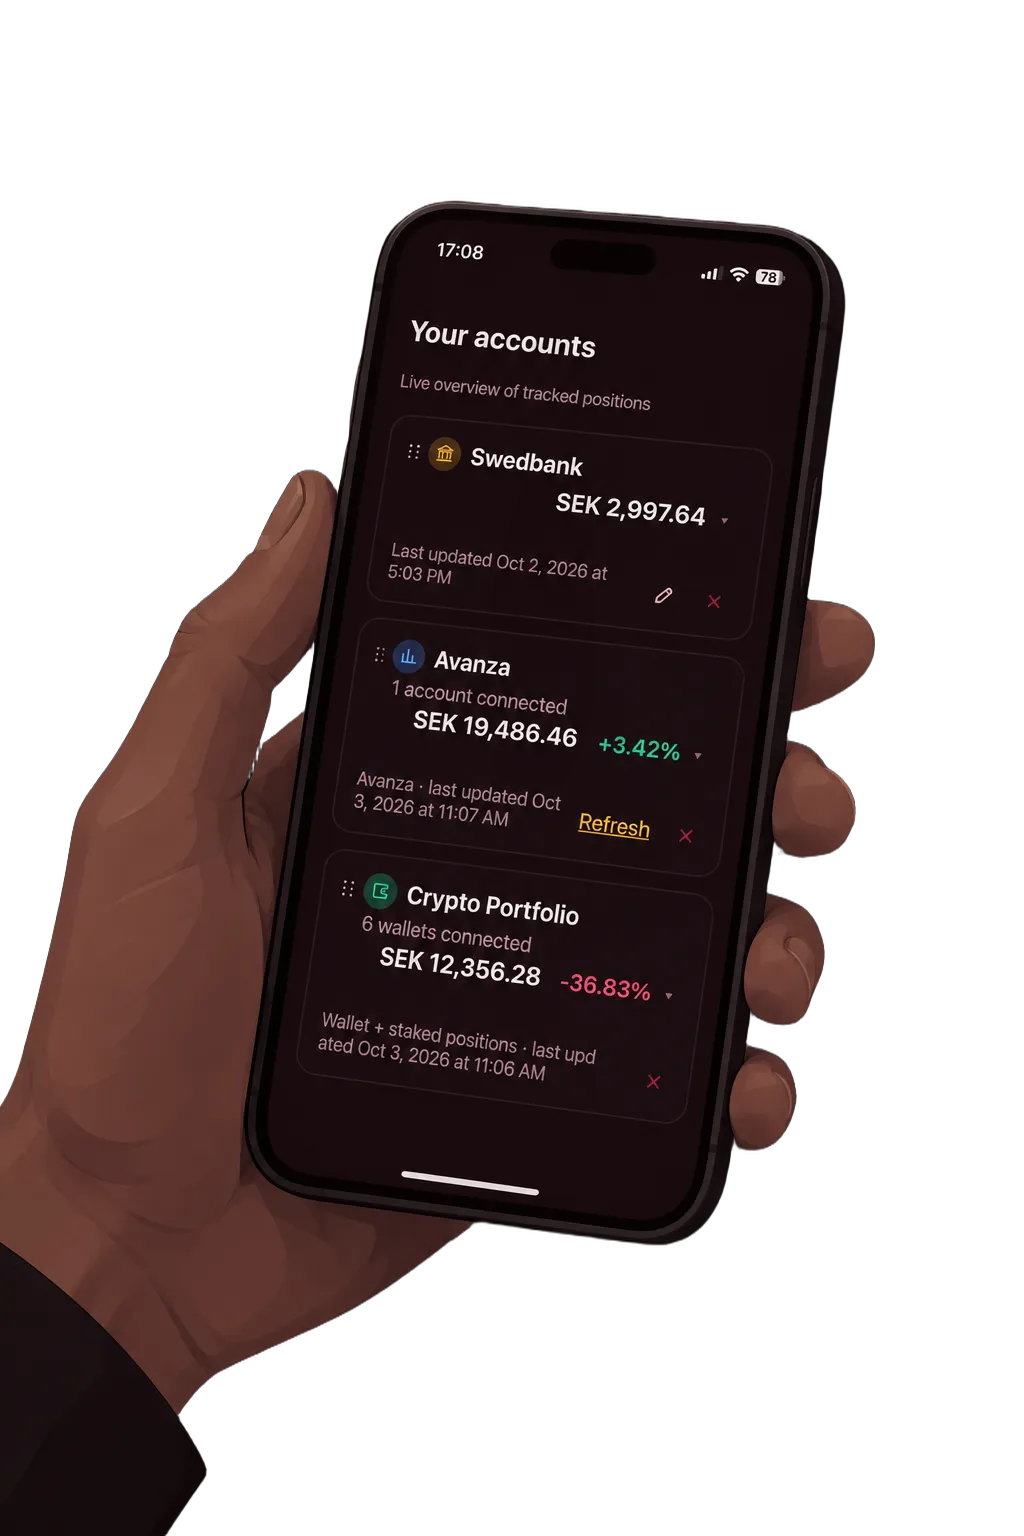
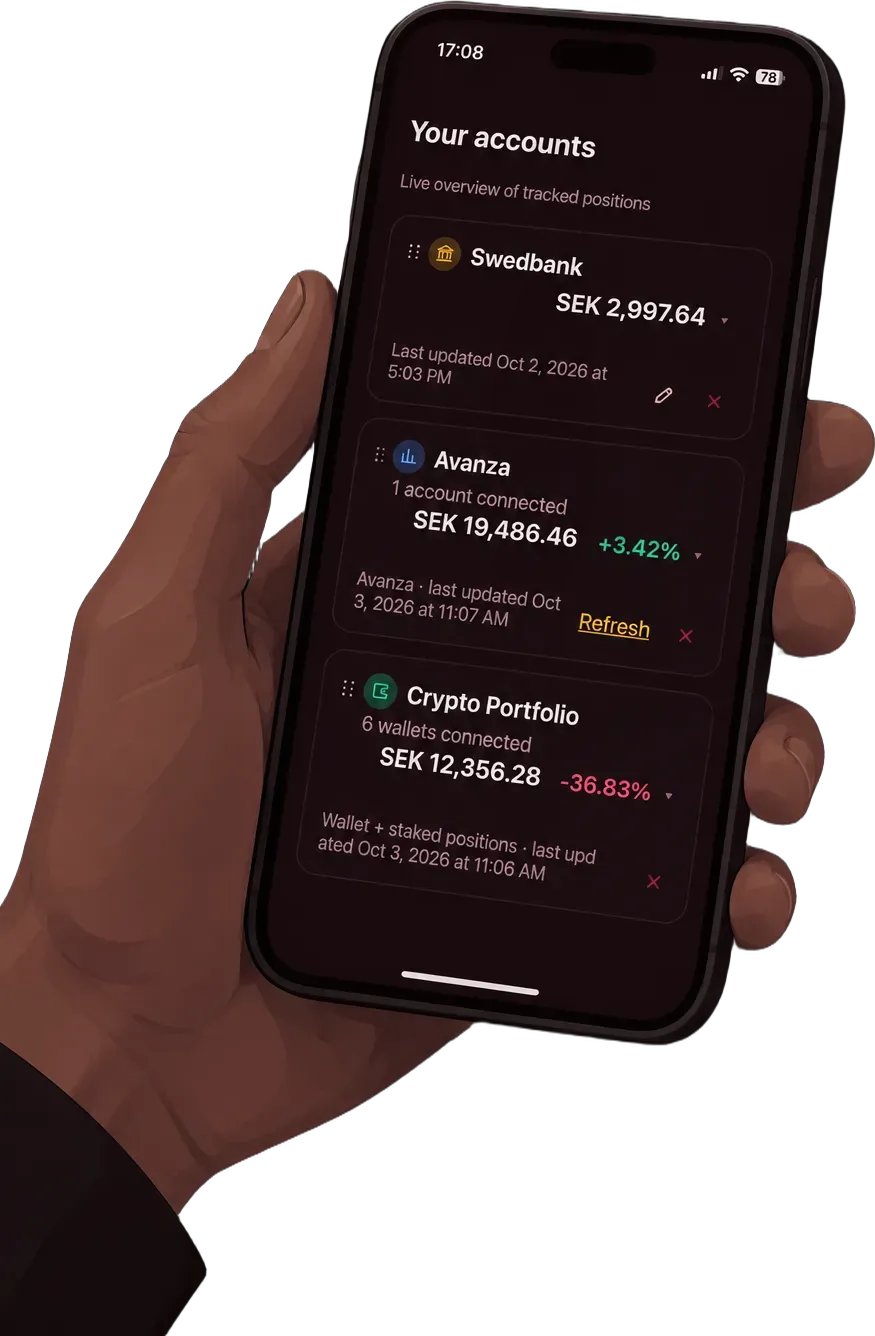
Crop the hero mockup's transparent padding and drop em-dashes from the gate
Found the real cause of "nothing changed": the image file had a large
amount of transparent padding baked in around the hand (visually
confirmed by reading the file directly), so repositioning the <img>
element moved an empty margin to the edge while the visible hand stayed
exactly where it was — no CSS fix could have touched that. Auto-cropped
the transparent bounds with sharp (1024x1536 -> 875x1336) so the hand
itself now actually reaches toward the edges, and updated the element's
width/height attributes to match.

Also reworded every em-dash out of the auth gate's visible text (the new
About/Compare copy, the badges, and the pre-existing passphrase hint) per
feedback — commas, periods, or "so"/colons instead. Left HTML comments
alone since those aren't user-visible.

diff --git a/index.html b/index.html
@@ -6,7 +6,7 @@
     <title>Tradone</title>
     <meta
       name="description"
-      content="Local-first portfolio dashboard — your data stays encrypted on this device."
+      content="Local-first portfolio dashboard. Your data stays encrypted on this device."
     />
     <link rel="manifest" href="manifest.json" />
     <meta name="theme-color" content="#170b0d" />
@@ -25,7 +25,7 @@
              the About section below the fold already carries the same
              explainer content. -->
         <div class="auth-hero-side auth-hero-side-left" aria-hidden="true">
-          <img src="auth-hero-mockup.webp" alt="" class="auth-hero-mockup" width="1024" height="1536" />
+          <img src="auth-hero-mockup.webp" alt="" class="auth-hero-mockup" width="875" height="1336" />
         </div>
 
         <div class="auth-box">
@@ -51,7 +51,7 @@
           <!-- First run on this device: nothing to unlock yet, so straight to
                choosing a passphrase. -->
           <form id="create-form" class="account-form" style="display:none">
-            <p class="avanza-note">Choose a passphrase. It never leaves this device and cannot be recovered if lost — write it down somewhere safe.</p>
+            <p class="avanza-note">Choose a passphrase. It never leaves this device and cannot be recovered if lost, so write it down somewhere safe.</p>
             <label>
               <span>Passphrase</span>
               <input id="create-passphrase" type="password" autocomplete="new-password" minlength="8" required />
@@ -103,10 +103,10 @@
         <div class="auth-section-inner">
           <h2>What is Tradone?</h2>
           <p class="auth-section-lead">
-            Tradone is a local-first portfolio dashboard for everything you own — crypto wallets, broker
-            accounts, PayPal, and your everyday spending — in one place, without a server ever seeing your
-            data. Your accounts and balances live encrypted on this device, unlocked only by a passphrase
-            only you know.
+            Tradone is a local-first portfolio dashboard for everything you own: crypto wallets, broker
+            accounts, PayPal, and your everyday spending, all in one place, without a server ever seeing
+            your data. Your accounts and balances live encrypted on this device, unlocked only by a
+            passphrase only you know.
           </p>
           <div class="auth-feature-grid">
             <div class="auth-feature">
@@ -115,7 +115,7 @@
               </svg>
               <div>
                 <strong>Crypto, with staking included</strong>
-                <span>Ethereum, Solana, and more — including staked positions most trackers miss.</span>
+                <span>Ethereum, Solana, and more, including staked positions most trackers miss.</span>
               </div>
             </div>
             <div class="auth-feature">
@@ -125,7 +125,7 @@
               </svg>
               <div>
                 <strong>Everything in one dashboard</strong>
-                <span>Avanza, PayPal, and manual accounts alongside your crypto — no more tab-switching.</span>
+                <span>Avanza, PayPal, and manual accounts alongside your crypto, with no more tab-switching.</span>
               </div>
             </div>
             <div class="auth-feature">
@@ -144,7 +144,7 @@
               </svg>
               <div>
                 <strong>Encrypted, device-only vault</strong>
-                <span>Nothing is ever stored on a server — not even we can read your data.</span>
+                <span>Nothing is ever stored on a server. Not even we can read your data.</span>
               </div>
             </div>
           </div>
@@ -161,7 +161,7 @@
                 <li><span class="auth-compare-icon auth-compare-icon-no" aria-hidden="true">&times;</span><span>Your data lives on their servers</span></li>
                 <li><span class="auth-compare-icon auth-compare-icon-no" aria-hidden="true">&times;</span><span>Sign up with an email, sometimes ID verification</span></li>
                 <li><span class="auth-compare-icon auth-compare-icon-no" aria-hidden="true">&times;</span><span>Subscriptions and feature paywalls are common</span></li>
-                <li><span class="auth-compare-icon auth-compare-icon-no" aria-hidden="true">&times;</span><span>They can see — and sometimes sell — your financial data</span></li>
+                <li><span class="auth-compare-icon auth-compare-icon-no" aria-hidden="true">&times;</span><span>They can see, and sometimes sell, your financial data</span></li>
                 <li><span class="auth-compare-icon auth-compare-icon-no" aria-hidden="true">&times;</span><span>Exporting your own data is often limited</span></li>
               </ul>
             </div>
@@ -169,10 +169,10 @@
               <h3>Tradone</h3>
               <ul>
                 <li><span class="auth-compare-icon auth-compare-icon-yes" aria-hidden="true">&check;</span><span>Your data lives encrypted on your own device</span></li>
-                <li><span class="auth-compare-icon auth-compare-icon-yes" aria-hidden="true">&check;</span><span>No email, no account — just a passphrase only you know</span></li>
+                <li><span class="auth-compare-icon auth-compare-icon-yes" aria-hidden="true">&check;</span><span>No email, no account, just a passphrase only you know</span></li>
                 <li><span class="auth-compare-icon auth-compare-icon-yes" aria-hidden="true">&check;</span><span>Completely free, no feature paywalls</span></li>
-                <li><span class="auth-compare-icon auth-compare-icon-yes" aria-hidden="true">&check;</span><span>Nobody — not even Tradone — can read your data</span></li>
-                <li><span class="auth-compare-icon auth-compare-icon-yes" aria-hidden="true">&check;</span><span>Full encrypted backup/restore — it's genuinely yours</span></li>
+                <li><span class="auth-compare-icon auth-compare-icon-yes" aria-hidden="true">&check;</span><span>Nobody, not even Tradone, can read your data</span></li>
+                <li><span class="auth-compare-icon auth-compare-icon-yes" aria-hidden="true">&check;</span><span>Full encrypted backup/restore. It's genuinely yours</span></li>
               </ul>
             </div>
           </div>

diff --git a/service-worker.js b/service-worker.js
@@ -4,7 +4,7 @@
 // financial/market data from the relay (see server.js) and must always hit
 // the network, never a stale cache. Bump CACHE_NAME on every shell release
 // so returning visitors pick up the new files instead of stale cached ones.
-const CACHE_NAME = 'tradone-shell-v15';
+const CACHE_NAME = 'tradone-shell-v16';
 const SHELL_FILES = [
   './',
   './index.html',
